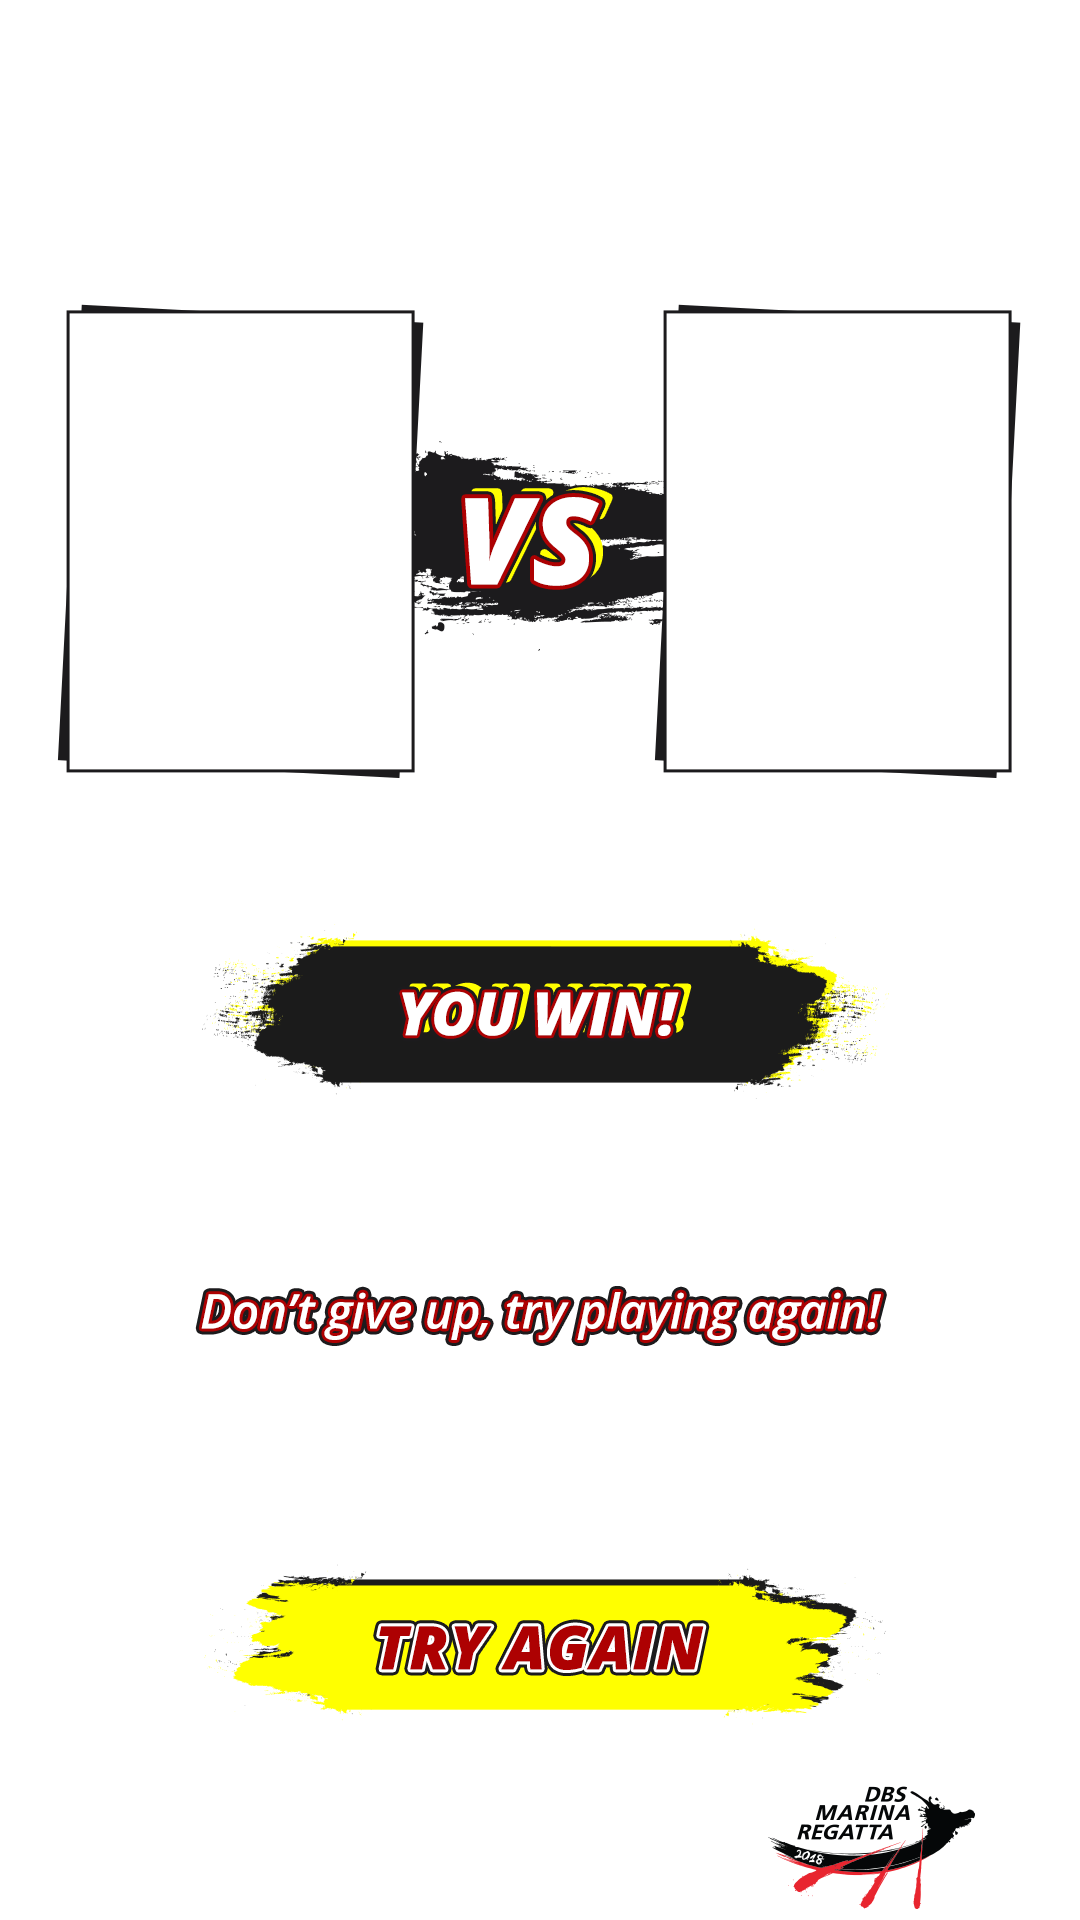
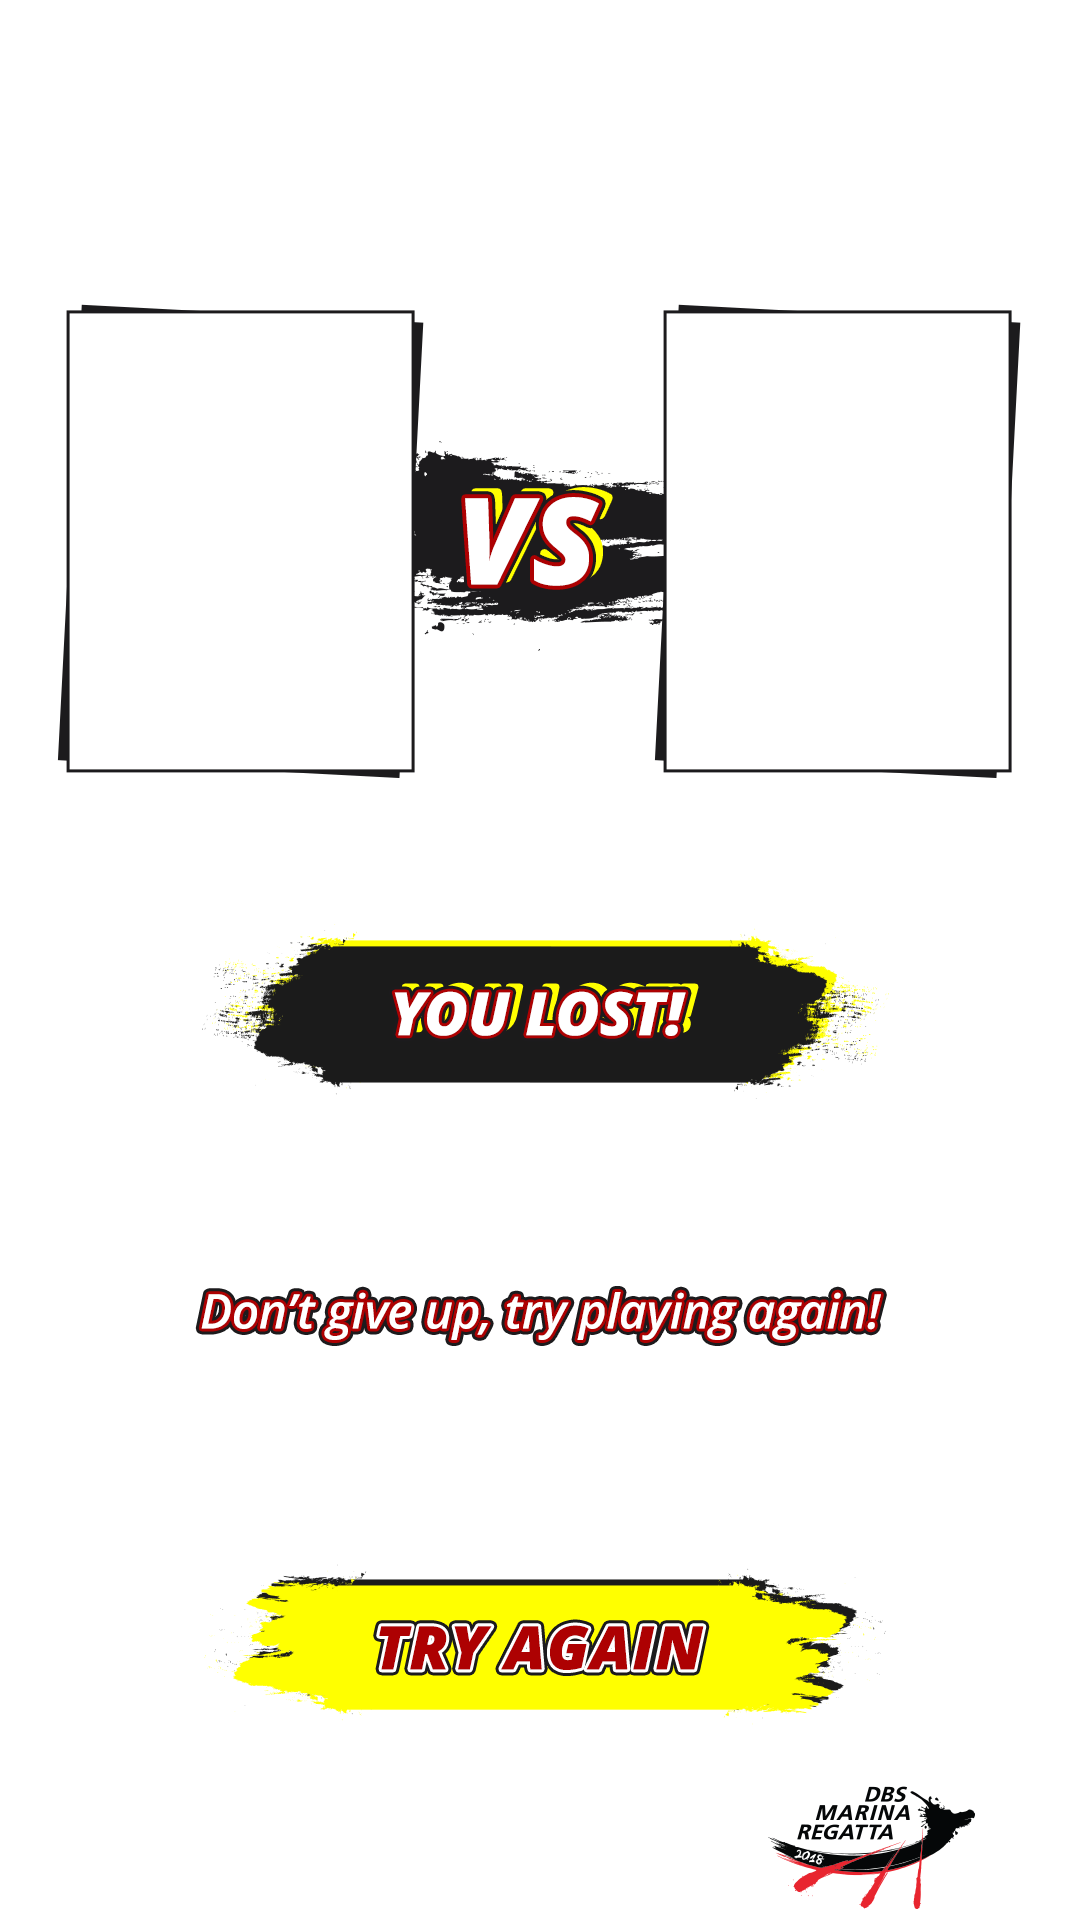
fix win losse class

Changed region(s): [[0.3667, 0.5, 0.6417, 0.5625]]

diff --git a/classes/GameManager.js b/classes/GameManager.js
@@ -57,7 +57,7 @@ module.exports = class GameManager {
 
     let AIPlay = () => {
       this.p2AddScore(1);
-      let ai_fastest_reaction = 460;
+      let ai_fastest_reaction = 3460;
       let reaction_variation_array = ai_range(ai_fastest_reaction, ai_fastest_reaction + 500);
       let reaction_variation = reaction_variation_array[Math.floor(Math.random() * reaction_variation_array.length)];
       // console.log('reaction_variation:' + reaction_variation);
@@ -123,15 +123,15 @@ module.exports = class GameManager {
     // win
     if (this.p1_score > this.p2_score) {
       console.log('win');
-      $('.player01 .player-photo').addClass('winner');
-      $('.player02 .player-photo').removeClass('losser');
+      $('.player01 .player-photo').addClass('winner').removeClass('losser');
+      $('.player02 .player-photo').addClass('losser').removeClass('winner');
       $('#s06-result').css('background-image', 'url(images/bg-res-win.png)');
       $('#s07-thankyou').css('background-image', 'url(images/bg-thankyou-win.png)');
     // lose
     } else {
       console.log('lose');
-      $('.player01 .player-photo').addClass('losser');
-      $('.player02 .player-photo').removeClass('winner');
+      $('.player01 .player-photo').addClass('losser').removeClass('winner');
+      $('.player02 .player-photo').addClass('winner').removeClass('losser');
       $('#s06-result').css('background-image', 'url(images/bg-res-lose.png)');
       $('#s07-thankyou').css('background-image', 'url(images/bg-thankyou-lose.png)');
     }
